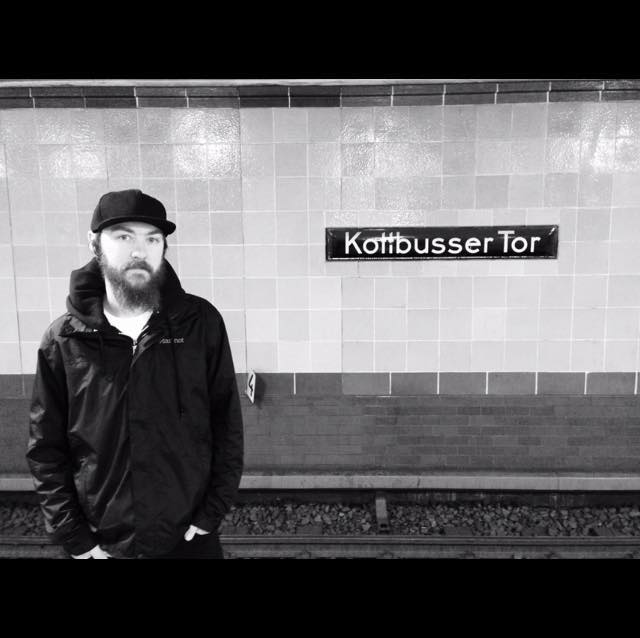
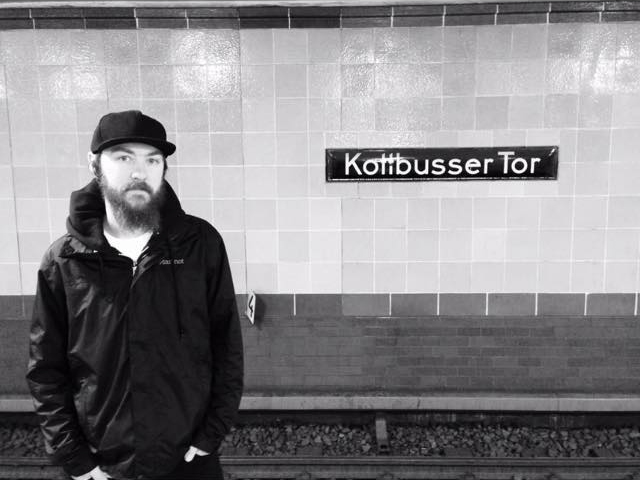
fill out README

diff --git a/css/styles.css b/css/styles.css
@@ -1,22 +1,28 @@
 body {
+  
   background-image: url("https://images.unsplash.com/photo-1534841090574-cba2d662b62e?ixlib=rb-1.2.1&auto=format&fit=crop&w=2134&q=80");
   opacity: 0.8;
   background-color: black;
 }
-.top-section {
-  
+.top-section {  
   margin: auto;
   width: 85%;
   padding: 5px;
-  border: solid 1px rgb(240, 240, 240);  
+  border: solid 1px rgb(240, 240, 240); 
+  border-radius: 10px; 
   background-color: black;
   margin-bottom: 10px;
   margin-top: 10px;
   box-sizing: border-box;
 }
+.blockquote-footer {
+  text-align: center;
+  margin-bottom: 10px;
+}
 .center-image {    
   margin: auto;
-  width: 60%;
+  margin-bottom: 20px;  
+  width: 62%;
   height: auto;
   display: block;
 }
@@ -24,9 +30,9 @@ body {
   font-style: italic;
 }
 #main_name {
-  margin-top: 50px;
-  letter-spacing: 20px;
-  font-size: 70px;
+  margin-top: 10px;
+  letter-spacing: 25px;
+  font-size: 65px;
   font-family: fantasy;
   padding: 5px;
   margin: auto;
@@ -39,6 +45,7 @@ body {
   width: 85%;
   padding: 10px;
   border: solid 1px rgb(240, 240, 240);
+  border-radius: 10px;
   color: rgb(240, 240, 240);
   background-color: black;
   margin-bottom: 10px;
@@ -53,7 +60,7 @@ body {
 }
 .column {  
   width: 33%;
-  float: left;
+  float: left;  
 }
 .projects {  
   border: solid 1px rgb(240, 240, 240);
@@ -77,7 +84,6 @@ body {
   font-size: medium;
   text-align: center;  
 } 
-
 a:link {
   color:  rgb(1, 228, 20);
 }

diff --git a/index.html b/index.html
@@ -10,7 +10,7 @@
     <div class="top-section">
       <h1 id="main_name"><strong>BEN STOLLER</strong></h1>
       <img src="stoller_pic_berlin.jpg" class="center-image" alt="Ben in Berlin">
-      <!-- <footer class="blockquote-footer">Berlin, 2016</footer> -->
+      <footer class="blockquote-footer">Kreuzberg, Berlin - 2016</footer>
     </div>    
     <div class ="card box1">
       <div class ="card-body">               

diff --git a/README.md b/README.md
@@ -1,37 +1,35 @@
-# _{Application Name}_
+# Portfolio Landing Page
 
-#### _{Brief description of application}, {Date of current version}_
+#### A webpage acting as a landing page for my programming portfolio 08/072020
+#### By Ben Stoller
 
-#### By _**{List of contributors}**_
+## Link to sight:
+
+
 
 ## Description
 
-_{This is a detailed description of your application. Its purpose and usage.  Give as much detail as needed to explain what the application does, and any other information you want users or other developers to have. }_
+This is a project to demonstrate different techniques using HTML and CSS styilizing. Later it will function as a landing page for my programmig portfolio. 
 
 ## Setup/Installation Requirements
 
-* _This is a great place_
-* _to list setup instructions_
-* _in a simple_
-* _easy-to-understand_
-* _format_
-
-_{Leave nothing to chance! You want it to be easy for potential users, employers and collaborators to run your app. Do I need to run a server? How should I set up my databases? Is there other code this app depends on?}_
+* Copy repo from https://github.com/StollerSystem/portfolio_landing_page
+* Open folder in text efitor of your choice
 
 ## Known Bugs
 
-_{Are there issues that have not yet been resolved that you want to let users know you know?  Outline any issues that would impact use of your application.  Share any workarounds that are in place. }_
+None at the moment 
 
 ## Support and contact details
 
-_{Let people know what to do if they run into any issues or have questions, ideas or concerns.  Encourage them to contact you or make a contribution to the code.}_
+https://github.com/StollerSystem
 
 ## Technologies Used
 
-_{Tell me about the languages and tools you used to create this app. Assume that I know you probably used HTML and CSS. If you did something really cool using only HTML, point that out.}_
+Made using HTML, CSS and Bootstrap in VSCode
 
 ### License
 
-*{Determine the license under which this application can be used.  See below for more details on licensing.}*
+MIT
 
-Copyright (c) 2016 **_{List of contributors or company name}_**
+Copyright (c) 2020 **Ben Stoller**
